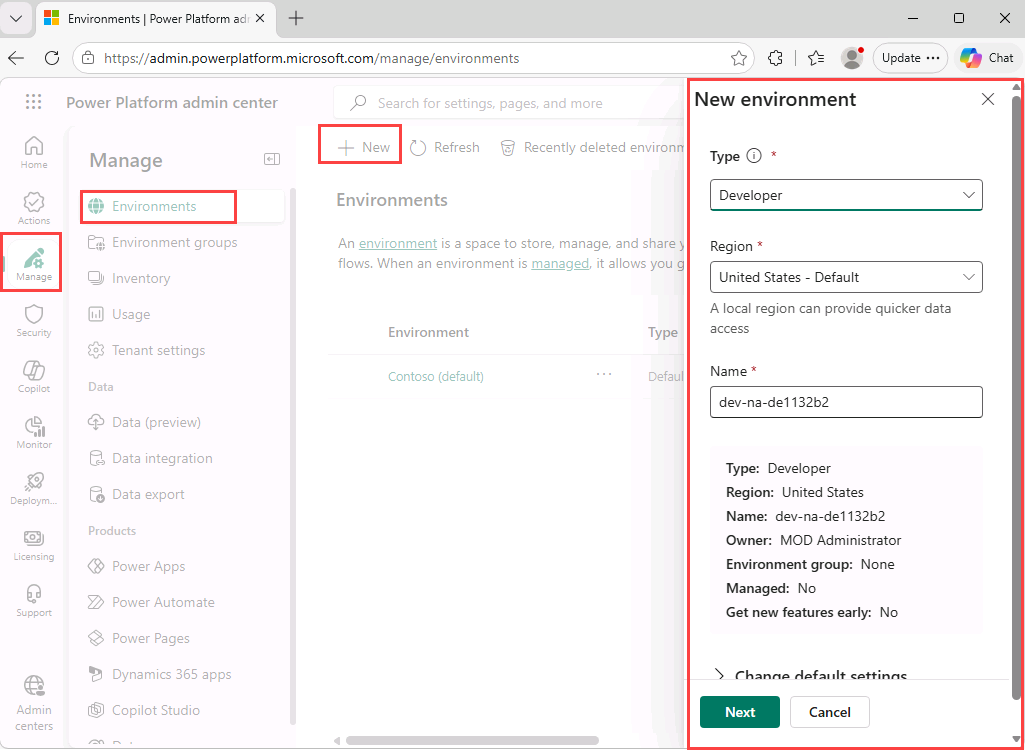
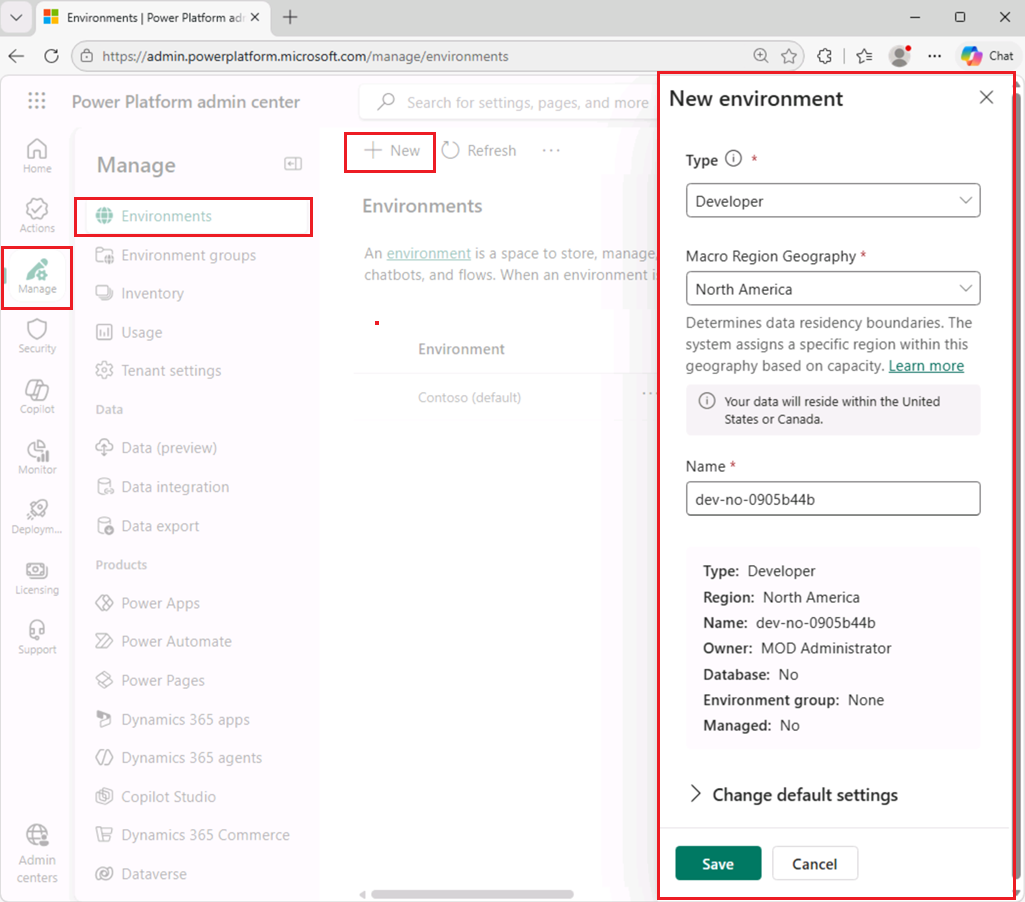
Reflect upstream lab updates: Macro Region Geography field and lab 05 preview URL fallback
- Lab 00: Region -> Macro Region Geography (North America), replace create-environment screenshot
- Lab 05: add note about the build prompt box missing on Home, use the preview URL
- Update the as-of date to September 2026

diff --git a/ms-learn/exercises/index.html b/ms-learn/exercises/index.html
@@ -70,7 +70,7 @@
 <div class="notice">
   <span class="t">원문을 함께 확인해 주세요</span>
   <p>이 문서는 Microsoft Learn 실습 랩 <a href="https://microsoftlearning.github.io/mslearn-copilotstudio/" target="_blank" rel="noopener">mslearn-copilotstudio</a>를 한국어로 옮기고 설명을 덧붙인 자료입니다. 원문 랩은 영어로만 제공됩니다.</p>
-  <p>Copilot Studio는 기능과 화면이 빠르게 바뀝니다. 이 문서는 2026년 8월 기준이므로, 정확한 내용 확인을 위해서는 <strong>각 단원 머리의 원문 링크</strong>를 눌러 최신 내용을 확인해 주세요.</p>
+  <p>Copilot Studio는 기능과 화면이 빠르게 바뀝니다. 이 문서는 2026년 9월 기준이므로, 정확한 내용 확인을 위해서는 <strong>각 단원 머리의 원문 링크</strong>를 눌러 최신 내용을 확인해 주세요.</p>
   <p>입력값과 수식은 원문 그대로 옮겼으니 영어 표기 그대로 사용하시면 됩니다.</p>
   <p>화면 이미지와 원문 내용의 저작권은 Microsoft에 있습니다.</p>
 </div>
@@ -136,7 +136,7 @@
   <li><span class="ui">Environments</span> 페이지에서 <span class="ui">+ New</span>를 선택하고 다음처럼 설정합니다.
     <ul>
       <li><strong>Type</strong> · Developer</li>
-      <li><strong>Region</strong> · 기본 지역</li>
+      <li><strong>Macro Region Geography</strong> · North America</li>
       <li><strong>Name</strong> · 본인 이름</li>
     </ul>
   </li>
@@ -145,6 +145,10 @@
   <img src="media/create-environment.png" alt="관리 센터에서 환경 만들기">
   <figcaption>새 환경 만들기</figcaption>
 </figure>
+<div class="box note">
+  <span class="t">참고</span>
+  <p>예전에 <span class="ui">Region</span>이던 항목이 <span class="ui">Macro Region Geography</span>로 바뀌었습니다. 여기서 고른 지역이 데이터가 저장되는 범위를 정합니다.</p>
+</div>
 <ol class="steps" start="2">
   <li><span class="ui">Change default settings</span>를 펼치고 다음처럼 설정합니다.
     <ul>
@@ -1592,6 +1596,10 @@ The purpose of this agent is to analyze, categorize, and prioritize tasks, and t
   <li>빌드 프롬프트 상자에 다음 설명을 입력합니다.</li>
 </ol>
 <div class="prompt"><span class="prompt-label">프롬프트</span>You are an IT support agent for Contoso. You help employees troubleshoot common IT issues such as password resets, software installation problems, and network connectivity. When you cannot resolve an issue, you help the employee submit a support ticket.</div>
+<div class="box warn">
+  <span class="t">프롬프트 상자가 안 보일 때</span>
+  <p>환경에 따라 표준 주소로 접속하면 <span class="ui">Home</span> 페이지에 빌드 프롬프트 상자가 나타나지 않습니다. 상자가 보이지 않으면 미리 보기 주소 <code>https://copilotstudio.preview.microsoft.com/</code>으로 Copilot Studio를 열고 실습을 이어 갑니다.</p>
+</div>
 <div class="box note">
   <span class="t">참고</span>
   <p>새 환경은 이 설명을 바탕으로 초기 지침 묶음을 자동 생성합니다. 계속하기 전에 내용을 확인하세요.</p>
@@ -1697,6 +1705,7 @@ The purpose of this agent is to analyze, categorize, and prioritize tasks, and t
 <tr><td>데모 웹사이트 링크가 없다</td><td>인증이 <span class="ui">Authenticate with Microsoft</span>이면 쓸 수 없습니다. No authentication이나 수동 인증으로 바꿉니다.</td></tr>
 <tr><td>Edit with Copilot이 노드를 잘못 고쳤다</td><td><span class="ui">Undo</span>를 누르고 다른 표현으로 다시 시도합니다.</td></tr>
 <tr><td>화면이 랩 설명과 다르다</td><td>랩 00~04는 표준 인터페이스 기준입니다. <span class="ui">New experience</span> 토글을 끄세요.</td></tr>
+<tr><td>랩 05에서 <span class="ui">Home</span>에 빌드 프롬프트 상자가 없다</td><td>미리 보기 주소 <code>https://copilotstudio.preview.microsoft.com/</code>으로 다시 접속합니다.</td></tr>
 </tbody>
 </table>
 </div>

diff --git a/index.html b/index.html
@@ -30,13 +30,13 @@
   <span class="eyebrow">비공식 한국어 번역본</span>
   <h1>Microsoft Copilot Studio</h1>
   <p class="sub">Microsoft Learn의 Copilot Studio 학습 모듈과 실습 랩을 한국어로 옮기고 설명을 덧붙였습니다. 원문에 실린 화면 이미지를 모두 포함했습니다.</p>
-  <div class="meta"><span>문서 2종</span><span>화면 이미지 117장</span><span>2026년 8월 기준</span></div>
+  <div class="meta"><span>문서 2종</span><span>화면 이미지 117장</span><span>2026년 9월 기준</span></div>
 </header>
 
 <div class="notice">
   <span class="t">읽기 전에</span>
   <p>이 사이트는 학습 편의를 위해 만든 <strong>비공식 번역본</strong>입니다. Microsoft의 공식 한국어 현지화가 아니며, Microsoft를 대표하지 않습니다.</p>
-  <p>Copilot Studio는 기능과 화면이 빠르게 바뀝니다. 이 사이트는 2026년 8월 기준이므로, 정확한 내용 확인을 위해서는 각 문서 <strong>단원 머리의 원문 링크</strong>를 눌러 최신 내용을 확인해 주세요.</p>
+  <p>Copilot Studio는 기능과 화면이 빠르게 바뀝니다. 이 사이트는 2026년 9월 기준이므로, 정확한 내용 확인을 위해서는 각 문서 <strong>단원 머리의 원문 링크</strong>를 눌러 최신 내용을 확인해 주세요.</p>
   <p>원문 내용과 화면 이미지의 저작권은 Microsoft에 있습니다. 자세한 내용은 <a href="https://github.com/ltnalsxl/mslearn-copilotstudio-ko/blob/main/NOTICE.md">저작권 고지</a>를 참고하세요.</p>
 </div>
 

diff --git a/ms-learn/get-started/index.html b/ms-learn/get-started/index.html
@@ -75,7 +75,7 @@
   <div class="meta">
     <span>단원 12개</span>
     <span>화면 이미지 36장</span>
-    <span>기준 2026년 8월</span>
+    <span>기준 2026년 9월</span>
     <span>원문은 한국어 미제공</span>
   </div>
 </header>
@@ -83,7 +83,7 @@
 <div class="notice">
   <span class="t">원문을 함께 확인해 주세요</span>
   <p>이 문서는 Microsoft Learn 모듈 <a href="https://learn.microsoft.com/en-us/training/modules/power-virtual-agents-bots/" target="_blank" rel="noopener">Get started with Microsoft Copilot Studio</a>를 한국어로 옮기고 설명을 덧붙인 자료입니다. 원문 모듈은 영어로만 제공됩니다.</p>
-  <p>Copilot Studio는 기능과 화면이 빠르게 바뀝니다. 이 문서는 2026년 8월 기준이므로, 정확한 내용 확인을 위해서는 <strong>각 단원 머리의 원문 링크</strong>를 눌러 최신 내용을 확인해 주세요.</p>
+  <p>Copilot Studio는 기능과 화면이 빠르게 바뀝니다. 이 문서는 2026년 9월 기준이므로, 정확한 내용 확인을 위해서는 <strong>각 단원 머리의 원문 링크</strong>를 눌러 최신 내용을 확인해 주세요.</p>
   <p>화면 이미지와 원문 내용의 저작권은 Microsoft에 있습니다.</p>
 </div>
 <div class="key">
